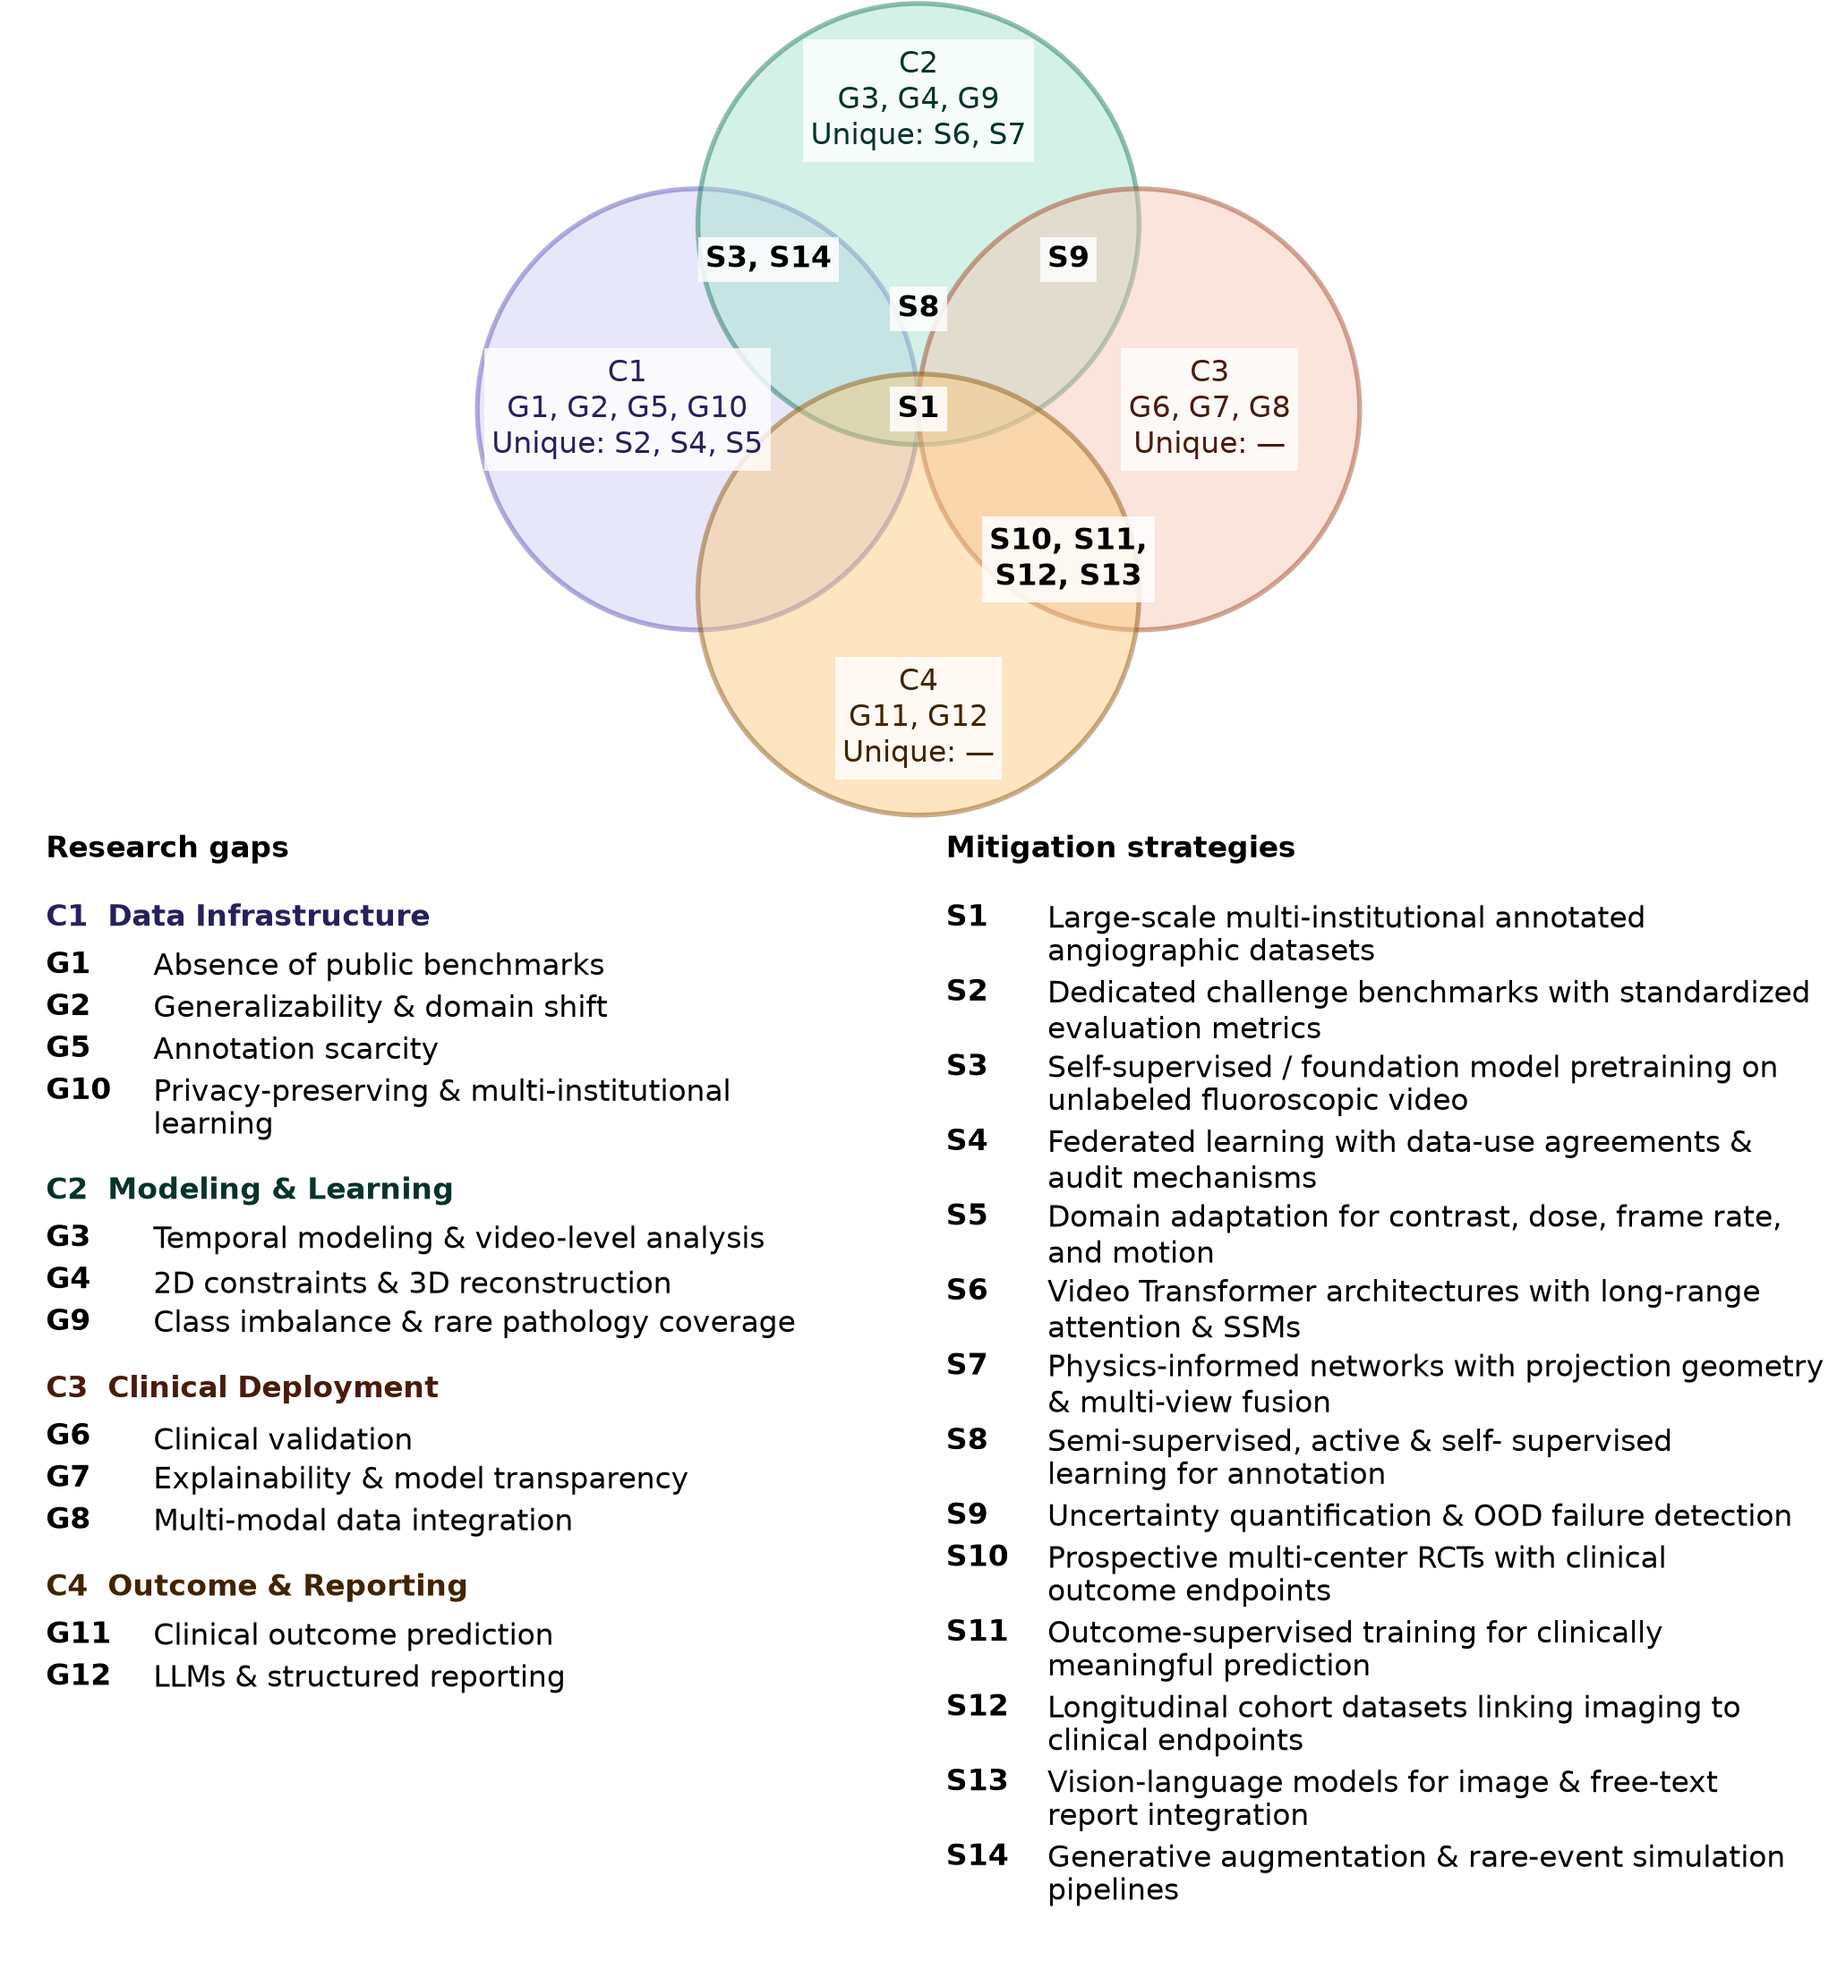
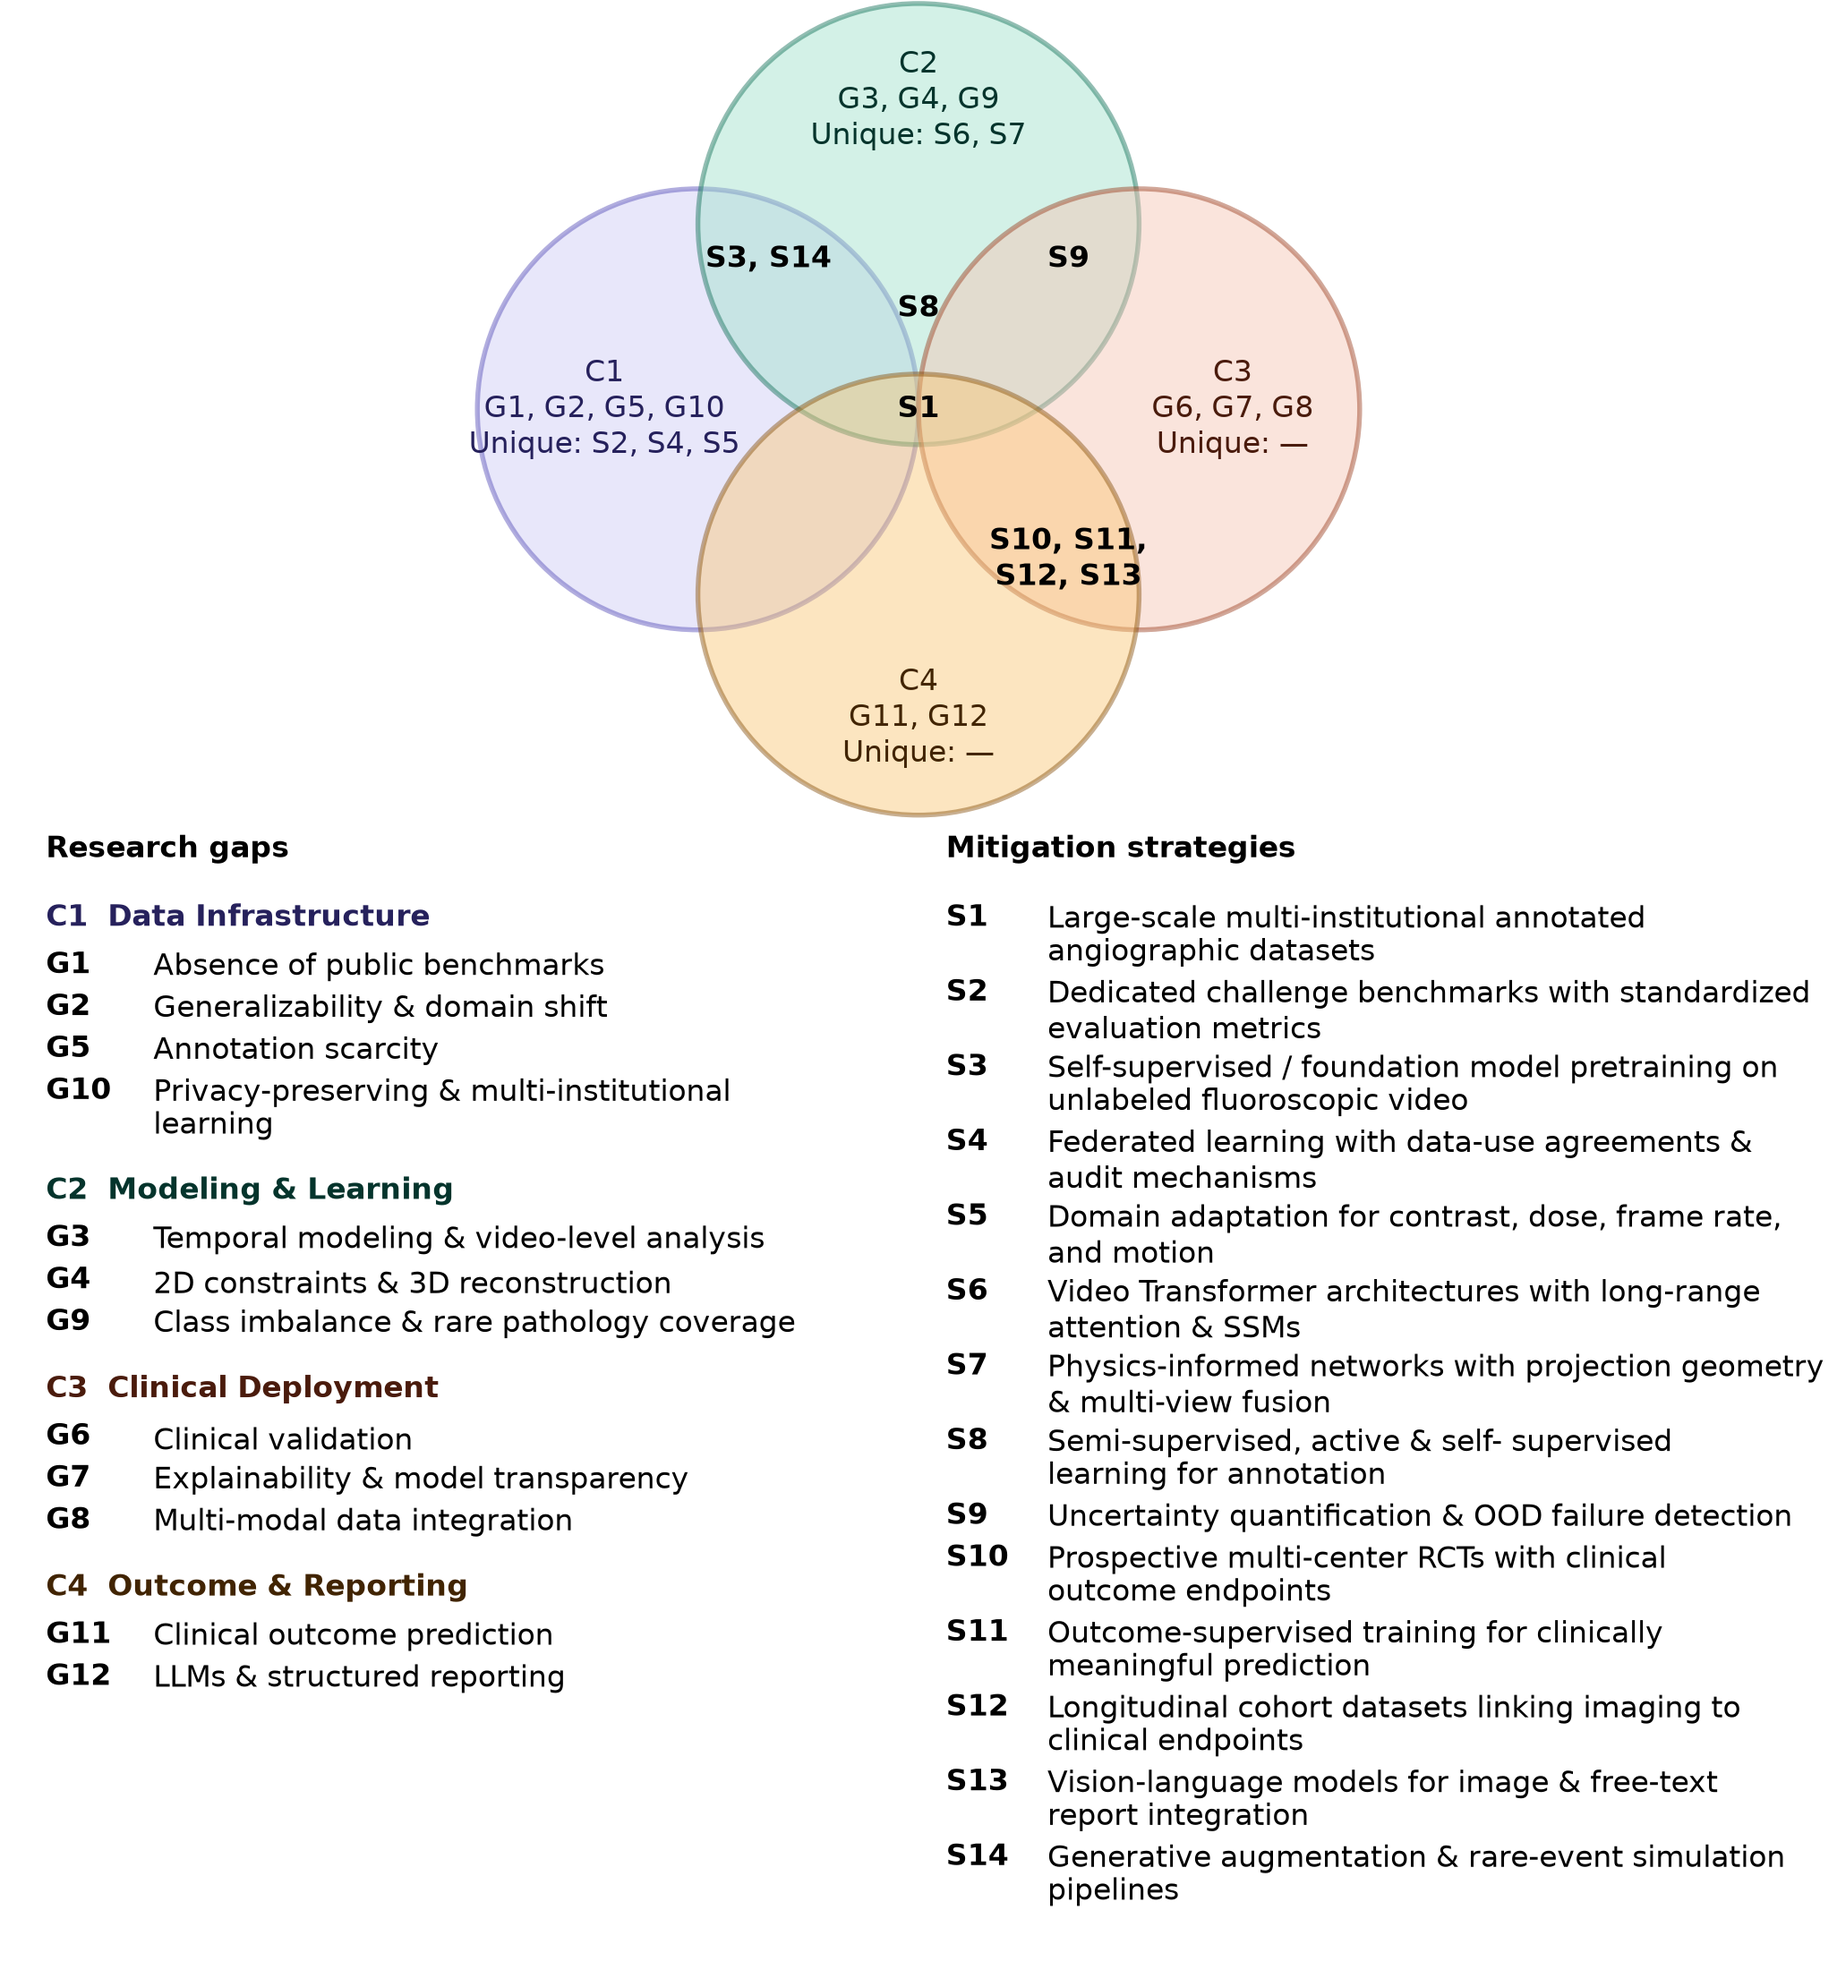
Drop white label boxes in the research-gap Venn
Labels sit directly on the circles; C1 and C3 labels move outward so they
clear the neighbouring outlines.

diff --git a/analysis/09_venn_diagram.py b/analysis/09_venn_diagram.py
@@ -106,16 +106,16 @@ ax.axis('off')
 centres = {'C1':(-1.25,0), 'C2':(0,1.05), 'C3':(1.25,0), 'C4':(0,-1.05)}
 for k,(x,y) in centres.items():
     ax.add_patch(Circle((x,y),1.25,fc=COLOURS[k]['fill'],ec=COLOURS[k]['edge'],alpha=.45,lw=1.3))
-labels = {'C1':(-1.65,0), 'C2':(0,1.75), 'C3':(1.65,0), 'C4':(0,-1.75)}
+labels = {'C1':(-1.78,0), 'C2':(0,1.75), 'C3':(1.78,0), 'C4':(0,-1.75)}
 for k,(x,y) in labels.items():
     gaps=', '.join(g[0] for g in CLUSTERS[k]['gaps'])
-    ax.text(x,y,k+'\n'+gaps+'\nUnique: '+UNIQUE[k],ha='center',va='center',fontsize=8,color=COLOURS[k]['txt'],bbox=dict(fc='white',ec='none',alpha=.8,pad=2))
+    ax.text(x,y,k+'\n'+gaps+'\nUnique: '+UNIQUE[k],ha='center',va='center',fontsize=8,color=COLOURS[k]['txt'])
 positions = {frozenset(['C1','C2']):(-.85,.85),frozenset(['C2','C3']):(.85,.85),frozenset(['C1','C4']):(-.85,-.85),frozenset(['C3','C4']):(.85,-.85),frozenset(['C1','C2','C3']):(0,.57),frozenset(['C1','C2','C3','C4']):(0,0)}
 for region,(x,y) in positions.items():
     label=INTERSECTIONS[region]
     if label == '—':
         continue
-    ax.text(x,y,label,ha='center',va='center',fontsize=8,weight='bold',bbox=dict(fc='white',ec='none',alpha=.85,pad=2))
+    ax.text(x,y,label,ha='center',va='center',fontsize=8,weight='bold')
 R=fig.canvas.get_renderer()
 def below(t,panel,gap):
     # Next entry starts under the drawn text, so wrapped lines never collide.
